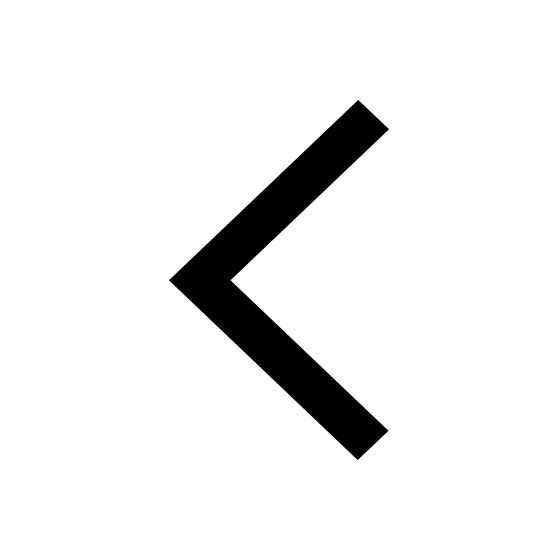
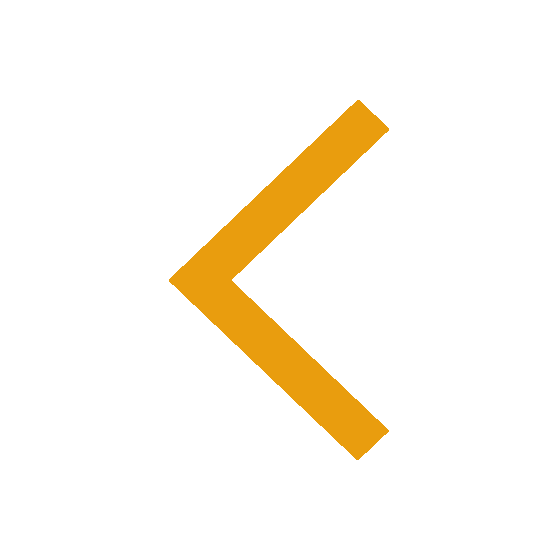
make nav arrows better

Changed region(s): [[0.3036, 0.1821, 0.6982, 0.8196]]

diff --git a/index.html b/index.html
@@ -32,7 +32,8 @@
                             I'm currently working on saving the schedules as they are made so that the program doesn't make the same schedule twice. Check out the <a href="https://github.com/SCollinA/ff-schedule-maker">source code</a> on my GitHub. A sample schedule is below.
                     </p>
                     <img src="images/Sample824.png" alt="one possible schedule for 8 teams in 2 divisions where 4 teams make the playoffs">
-                    <a href="http://ffscheduler.collinargo.com">Live Demo!</a>
+                    <a href="https://github.com/SCollinA/ff-schedule-maker-web">~GitHub Repo~</a>
+                    <a href="http://ffscheduler.collinargo.com">!Live Demo!</a>
                 </div>
             </div>
             <div class="sticky project">

diff --git a/styles/index.css b/styles/index.css
@@ -156,8 +156,8 @@ a:active {
     position: fixed;
     bottom: 0;
     left: 0;
-    width: 20%;
-    height: 20%;
+    width: 11%;
+    height: 11%;
     z-index: 1000;
 }
 
@@ -165,7 +165,7 @@ a:active {
     position: fixed;
     bottom: 0;
     right: 0;
-    width: 20%;
-    height: 20%;
+    width: 11%;
+    height: 11%;
     z-index: 1000;
 }

diff --git a/pictures.html b/pictures.html
@@ -21,7 +21,7 @@
             <img data-output src="images/coffee-table.jpg" alt="">
         </div>
     </div>
-    <script src='scripts/index.js'></script>
+    <!-- <script src='scripts/index.js'></script> -->
     <script src='scripts/pictures.js'></script>
 </body>
 </html> 

diff --git a/styles/projects.css b/styles/projects.css
@@ -42,7 +42,7 @@
     top: 0;
     padding-left: 0;
     margin-left: 0;
-    opacity: .9;
+    /* opacity: .9; */
 }
 
 section > .button {
